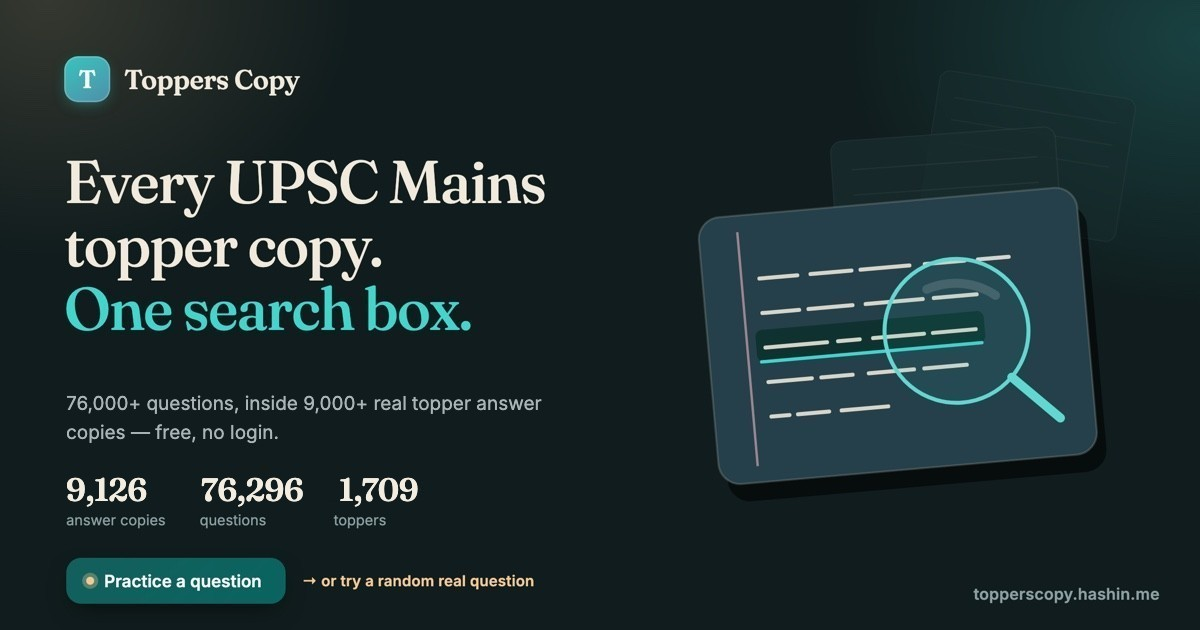
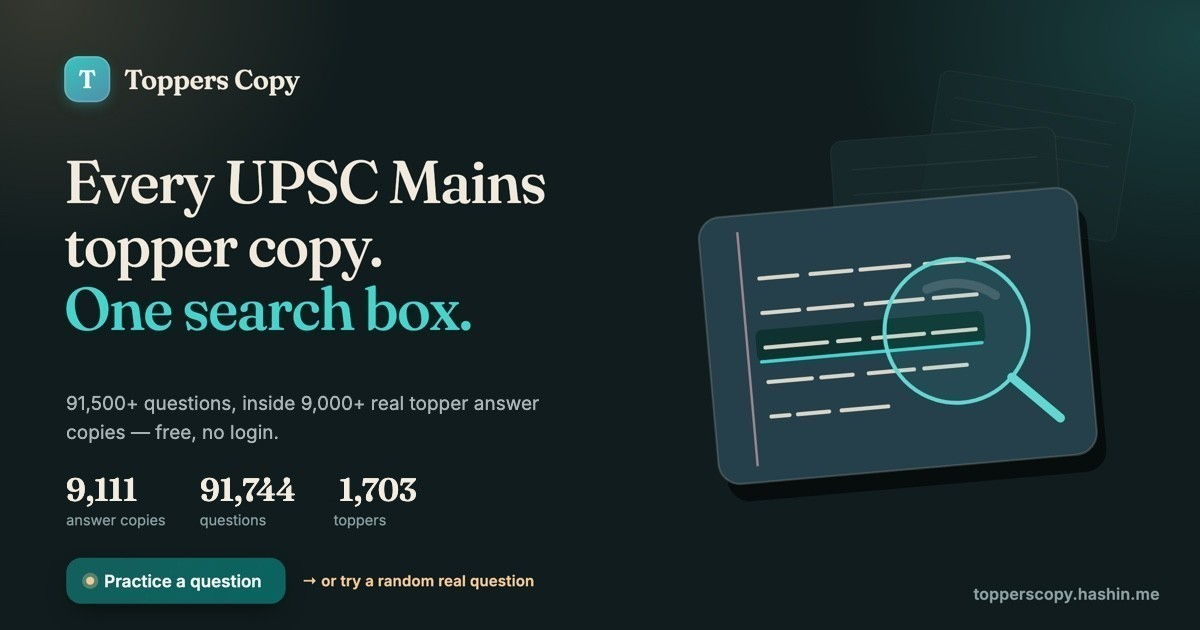
Refresh hero image numbers: 91,744 questions, 9,111 copies, 1,703 toppers
Patched with update-hero.mjs against origin/main 6ee317e (matches the live
site); README headline and og:image:alt updated to match.

diff --git a/index.html b/index.html
@@ -6,7 +6,7 @@
 
 <title>Topper's Copy by Hashin — UPSC Mains topper answer copies, searchable</title>
 <!-- META:START -->
-<meta name="description" content="Search 83,500+ questions inside 9,000+ UPSC Civil Services Mains topper answer copies — GS1-4, Essay and optional subjects — plus 3,800+ interview transcripts to help you prepare for your own Personality Test. Free, open and community-built.">
+<meta name="description" content="Search 91,500+ questions inside 9,000+ UPSC Civil Services Mains topper answer copies — GS1-4, Essay and optional subjects — plus 3,800+ interview transcripts to help you prepare for your own Personality Test. Free, open and community-built.">
 <!-- META:END -->
 <link rel="canonical" href="https://topperscopy.hashin.me/">
 <meta name="robots" content="index,follow,max-image-preview:large,max-snippet:-1,max-video-preview:-1">
@@ -20,14 +20,14 @@
 <meta property="og:site_name" content="Topper's Copy by Hashin">
 <meta property="og:title" content="Topper's Copy by Hashin — UPSC Mains topper answer copies, searchable">
 <!-- OGDESC:START -->
-<meta property="og:description" content="Search 83,500+ questions inside 9,000+ UPSC Mains topper answer copies, jump to the exact page, and study 3,800+ real interview transcripts. GS, Essay and optional subjects. Free and open.">
+<meta property="og:description" content="Search 91,500+ questions inside 9,000+ UPSC Mains topper answer copies, jump to the exact page, and study 3,800+ real interview transcripts. GS, Essay and optional subjects. Free and open.">
 <!-- OGDESC:END -->
 <meta property="og:url" content="https://topperscopy.hashin.me/">
 <meta property="og:image" content="https://topperscopy.hashin.me/assets/og.jpg">
 <meta property="og:image:type" content="image/jpeg">
 <meta property="og:image:width" content="1200">
 <meta property="og:image:height" content="630">
-<meta property="og:image:alt" content="Topper's Copy by Hashin: every UPSC Mains topper copy, one search box. 9,126 answer copies, 76,296 questions, 1,709 toppers — plus a Practice a question button.">
+<meta property="og:image:alt" content="Topper's Copy by Hashin: every UPSC Mains topper copy, one search box. 9,111 answer copies, 91,744 questions, 1,703 toppers — plus a Practice a question button.">
 <meta property="og:locale" content="en_IN">
 <meta name="twitter:card" content="summary_large_image">
 <meta name="twitter:title" content="Topper's Copy by Hashin — UPSC Mains topper answer copies, searchable">
@@ -170,8 +170,8 @@
   <style>.skeleton{min-height:0}</style>
   <section class="prose" style="padding:24px 0">
     <h2>UPSC Mains topper answer copies — full index</h2>
-    <p>82,438 questions from 5,392 answer
-    copies by 1298 rankers (GS Paper 1&ndash;4 and Essay), each linking to the exact page of the
+    <p>87,435 questions from 5,760 answer
+    copies by 1346 rankers (GS Paper 1&ndash;4 and Essay), each linking to the exact page of the
     source PDF. A free, open, community-built index. Optional-subject copies (Sociology, Anthropology,
     History, PSIR, Geography, Mathematics and more) are community-compiled.</p>
     <p><strong><a href="toppers.html">Open the full static index of all 1515 toppers and every copy &rarr;</a></strong>
@@ -180,7 +180,7 @@
     <p>Preparing for your own Personality Test? The <a href="/#interviews">Interviews tab</a> has
     3,863 UPSC interview transcripts — real board-by-board questions, DAF topics and candidate
     backgrounds — to see what boards actually ask.</p>
-    <h3>Selected rankers (150 of 1298 — full list in <a href="toppers.html">toppers.html</a>)</h3>
+    <h3>Selected rankers (150 of 1346 — full list in <a href="toppers.html">toppers.html</a>)</h3>
     <ul>
 <li><a href="/topper/aditya-srivastava/">Aditya Srivastava</a> — AIR 1 · CSE 2023</li>
 <li><a href="/topper/ishita-kishore/">Ishita Kishore</a> — AIR 1 · CSE 2022</li>
@@ -195,13 +195,10 @@
 <li><a href="/topper/akarsh-dhull/">Akarsh Dhull</a> — AIR 3 · CSE 2025</li>
 <li><a href="/topper/dongre-archit-parag/">Dongre Archit Parag</a> — AIR 3 · CSE 2024</li>
 <li><a href="/topper/gamini-singla/">Gamini Singla</a> — AIR 3 · CSE 2021</li>
-<li><a href="/topper/junaid-ahmad/">Junaid Ahmad</a> — AIR 3 · CSE 2018</li>
 <li><a href="/topper/aishwarya-verma/">Aishwarya Verma</a> — AIR 4 · CSE 2021</li>
 <li><a href="/topper/atul-prakash/">Atul Prakash</a> — AIR 4 · CSE 2017</li>
 <li><a href="/topper/raghav-jhunjhunwala/">Raghav Jhunjhunwala</a> — AIR 4 · CSE 2025</li>
 <li><a href="/topper/shah-margi-chirag/">Shah Margi Chirag</a> — AIR 4 · CSE 2024</li>
-<li><a href="/topper/smriti-mishra/">Smriti Mishra</a> — AIR 4 · CSE 2023</li>
-<li><a href="/topper/aakash-garg/">Aakash Garg</a> — AIR 5 · CSE 2024</li>
 <li><a href="/topper/ishan-bhatnagar/">Ishan Bhatnagar</a> — AIR 5 · CSE 2025</li>
 <li><a href="/topper/mamta-yadav/">Mamta Yadav</a> — AIR 5 · CSE 2020</li>
 <li><a href="/topper/ruhani/">Ruhani</a> — AIR 5 · CSE 2023</li>
@@ -239,7 +236,7 @@
 <li><a href="/topper/nupur-goel/">Nupur Goel</a> — AIR 11 · CSE 2019</li>
 <li><a href="/topper/parsanjeet-kour/">Parsanjeet Kour</a> — AIR 11 · CSE 2022</li>
 <li><a href="/topper/sanskriti-jain/">Sanskriti Jain</a> — AIR 11 · CSE 2014</li>
-<li><a href="/topper/abhinav-siwach/">Abhinav Siwach</a> — AIR 12 · CSE 2023</li>
+<li><a href="/topper/abhinav-siwach/">Abhinav Siwach</a> — AIR 12 · CSE 2022</li>
 <li><a href="/topper/ajay-jain/">Ajay Jain</a> — AIR 12 · CSE 2019</li>
 <li><a href="/topper/aniket-shandilya/">ANIKET SHANDILYA</a> — AIR 12 · CSE 2023</li>
 <li><a href="/topper/ashi-sharma/">Ashi Sharma</a> — AIR 12 · CSE 2024</li>
@@ -295,7 +292,6 @@
 <li><a href="/topper/abhishek-jain/">Abhishek Jain</a> — AIR 24 · CSE 2019</li>
 <li><a href="/topper/prajnanandan-giri/">Prajnanandan Giri</a> — AIR 24 · CSE 2023</li>
 <li><a href="/topper/r-rangamanju/">R Rangamanju</a> — AIR 24 · CSE 2024</li>
-<li><a href="/topper/ranga-manju/">Ranga Manju</a> — AIR 24 · CSE 2024</li>
 <li><a href="/topper/bhavika-chopra/">Bhavika Chopra</a> — AIR 25 · CSE 2025</li>
 <li><a href="/topper/ritika-verma/">RITIKA VERMA</a> — AIR 25 · CSE 2023</li>
 <li><a href="/topper/sankhe-kashmira-kishor/">Sankhe Kashmira Kishor</a> — AIR 25 · CSE 2022</li>
@@ -324,7 +320,7 @@
 <li><a href="/topper/pari-bishnoi/">Pari Bishnoi</a> — AIR 30 · CSE 2019</li>
 <li><a href="/topper/preksha-agrawal/">Preksha Agrawal</a> — AIR 30 · CSE 2022</li>
 <li><a href="/topper/aryan-yadav/">Aryan Yadav</a> — AIR 31 · CSE 2025</li>
-<li><a href="/topper/priyansha-garg/">Priyansha Garg</a> — AIR 31 · CSE 2023</li>
+<li><a href="/topper/priyansha-garg/">Priyansha Garg</a> — AIR 31 · CSE 2022</li>
 <li><a href="/topper/shreya-tyagi/">Shreya Tyagi</a> — AIR 31 · CSE 2024</li>
 <li><a href="/topper/simi-karan/">Simi Karan</a> — AIR 31 · CSE 2019</li>
 <li><a href="/topper/vishnu-sasikumar/">Vishnu Sasikumar</a> — AIR 31 · CSE 2023</li>
@@ -332,6 +328,10 @@
 <li><a href="/topper/navandar-anay-nitin/">Navandar Anay Nitin</a> — AIR 32 · CSE 2021</li>
 <li><a href="/topper/utkarsh-yadav/">Utkarsh Yadav</a> — AIR 32 · CSE 2024</li>
 <li><a href="/topper/mayank-purohit/">Mayank Purohit</a> — AIR 33 · CSE 2025</li>
+<li><a href="/topper/navneet-mann/">Navneet Mann</a> — AIR 33 · CSE 2019</li>
+<li><a href="/topper/tharun-patnaik/">Tharun Patnaik</a> — AIR 33 · CSE 2022</li>
+<li><a href="/topper/tharun-patnaik-madala/">Tharun Patnaik Madala</a> — AIR 33 · CSE 2022</li>
+<li><a href="/topper/zufishan-haque/">Zufishan Haque</a> — AIR 33 · CSE 2023</li>
     </ul>
   </section>
 </noscript>
@@ -635,7 +635,7 @@
 
 <!-- LD:START -->
 <script type="application/ld+json">
-{"@context":"https://schema.org","@graph":[{"@type":"WebSite","@id":"https://topperscopy.hashin.me/#website","url":"https://topperscopy.hashin.me/","name":"Topper's Copy by Hashin","description":"Searchable directory of UPSC Civil Services Mains topper answer copies — GS1–4, Essay and optional subjects.","inLanguage":"en","publisher":{"@id":"https://topperscopy.hashin.me/#org"},"potentialAction":{"@type":"SearchAction","target":{"@type":"EntryPoint","urlTemplate":"https://topperscopy.hashin.me/?q={search_term_string}"},"query-input":"required name=search_term_string"}},{"@type":"Organization","@id":"https://topperscopy.hashin.me/#org","name":"Topper's Copy by Hashin","url":"https://topperscopy.hashin.me/","description":"A free, open, community-built index of UPSC Mains topper answer copies.","founder":{"@id":"https://topperscopy.hashin.me/#hashin"}},{"@type":"Person","@id":"https://topperscopy.hashin.me/#hashin","name":"Hashin Jithu","url":"https://blog.hashin.me","description":"Creator and maintainer of Topper's Copy by Hashin. Topper of the UPSC Civil Services Examination 2021 with an All India Rank of 553. Built Topper's Copy by Hashin as a non-commercial way of giving back to the UPSC aspirant community.","knowsAbout":["UPSC Civil Services Examination","UPSC Mains answer writing","Public policy"],"award":"All India Rank 553, UPSC Civil Services Examination 2021"},{"@type":"Dataset","@id":"https://topperscopy.hashin.me/#dataset","name":"UPSC Mains Topper Answer Copies — question index","description":"A structured index of 82,438 questions across 5,392 UPSC Civil Services Mains answer copies written by 1298 rank-holders, covering General Studies Papers 1–4 and the Essay paper. Each record links to the exact page of the source PDF published by coaching institutes such as ForumIAS, Vision IAS and NextIAS.","url":"https://topperscopy.hashin.me/","keywords":["UPSC","Civil Services Exam","Mains","answer copy","toppers","General Studies","Essay","IAS","interview transcripts","Personality Test"],"license":"https://github.com/hashin/topperscopy/blob/main/LICENSE","isAccessibleForFree":true,"creator":{"@id":"https://topperscopy.hashin.me/#org"},"dateModified":"2026-10-29","distribution":[{"@type":"DataDownload","name":"Complete flat question table (CSV)","encodingFormat":"text/csv","contentUrl":"https://topperscopy.hashin.me/dataset/questions.csv"},{"@type":"DataDownload","name":"Complete dataset (nested JSON)","encodingFormat":"application/json","contentUrl":"https://topperscopy.hashin.me/dataset/dataset.json"},{"@type":"DataDownload","name":"Per-topper table (CSV)","encodingFormat":"text/csv","contentUrl":"https://topperscopy.hashin.me/dataset/toppers.csv"},{"@type":"DataDownload","name":"App index, grouped by topper (JSON)","encodingFormat":"application/json","contentUrl":"https://topperscopy.hashin.me/data/copies.json"}]},{"@type":"FAQPage","@id":"https://topperscopy.hashin.me/#faq","mainEntity":[{"@type":"Question","name":"What is Topper's Copy by Hashin?","acceptedAnswer":{"@type":"Answer","text":"A free, searchable directory of UPSC Civil Services Mains topper answer copies. It indexes 82,438 questions inside 5,392 answer copies by 1298 rankers and links to the exact page of each source PDF."}},{"@type":"Question","name":"Where do the answer copies come from?","acceptedAnswer":{"@type":"Answer","text":"Every copy is hosted by the coaching institute or compiler that published it — ForumIAS, Vision IAS, NextIAS, Lukmaan IAS, GS SCORE, Rau’s IAS, Level Up IAS, IMS4Maths, SuccessClap, UnlockIAS, Sleepy Classes and others — or the topper’s own Google Drive. Topper's Copy by Hashin only links to those files and never re-hosts them; it is a free, open, community-built index."}},{"@type":"Question","name":"Does it cover optional subjects?","acceptedAnswer":{"@type":"Answer","text":"Yes. Alongside GS1–GS4 and Essay, there is a community-built section for optional subjects — Sociology, Anthropology, History, PSIR, Geography, Public Administration, Philosophy, Economics, Literature and more."}},{"@type":"Question","name":"Can I prepare for the UPSC interview (Personality Test) here?","acceptedAnswer":{"@type":"Answer","text":"Yes. The Interviews tab has 3,863 real UPSC Personality Test transcripts — board members, the questions each panellist actually asked, DAF topics discussed, and candidate hobbies and education background — searchable by board, year, optional subject or state."}},{"@type":"Question","name":"Is it free?","acceptedAnswer":{"@type":"Answer","text":"Yes, completely free and open source. No login, no ads."}},{"@type":"Question","name":"How can I add a missing copy or a topper’s marks?","acceptedAnswer":{"@type":"Answer","text":"Use the Submit form on the site. It opens a pre-filled GitHub issue that a maintainer verifies before it goes live."}}]}]}
+{"@context":"https://schema.org","@graph":[{"@type":"WebSite","@id":"https://topperscopy.hashin.me/#website","url":"https://topperscopy.hashin.me/","name":"Topper's Copy by Hashin","description":"Searchable directory of UPSC Civil Services Mains topper answer copies — GS1–4, Essay and optional subjects.","inLanguage":"en","publisher":{"@id":"https://topperscopy.hashin.me/#org"},"potentialAction":{"@type":"SearchAction","target":{"@type":"EntryPoint","urlTemplate":"https://topperscopy.hashin.me/?q={search_term_string}"},"query-input":"required name=search_term_string"}},{"@type":"Organization","@id":"https://topperscopy.hashin.me/#org","name":"Topper's Copy by Hashin","url":"https://topperscopy.hashin.me/","description":"A free, open, community-built index of UPSC Mains topper answer copies.","founder":{"@id":"https://topperscopy.hashin.me/#hashin"}},{"@type":"Person","@id":"https://topperscopy.hashin.me/#hashin","name":"Hashin Jithu","url":"https://blog.hashin.me","description":"Creator and maintainer of Topper's Copy by Hashin. Topper of the UPSC Civil Services Examination 2021 with an All India Rank of 553. Built Topper's Copy by Hashin as a non-commercial way of giving back to the UPSC aspirant community.","knowsAbout":["UPSC Civil Services Examination","UPSC Mains answer writing","Public policy"],"award":"All India Rank 553, UPSC Civil Services Examination 2021"},{"@type":"Dataset","@id":"https://topperscopy.hashin.me/#dataset","name":"UPSC Mains Topper Answer Copies — question index","description":"A structured index of 87,435 questions across 5,760 UPSC Civil Services Mains answer copies written by 1346 rank-holders, covering General Studies Papers 1–4 and the Essay paper. Each record links to the exact page of the source PDF published by coaching institutes such as ForumIAS, Vision IAS and NextIAS.","url":"https://topperscopy.hashin.me/","keywords":["UPSC","Civil Services Exam","Mains","answer copy","toppers","General Studies","Essay","IAS","interview transcripts","Personality Test"],"license":"https://github.com/hashin/topperscopy/blob/main/LICENSE","isAccessibleForFree":true,"creator":{"@id":"https://topperscopy.hashin.me/#org"},"dateModified":"2026-11-05","distribution":[{"@type":"DataDownload","name":"Complete flat question table (CSV)","encodingFormat":"text/csv","contentUrl":"https://topperscopy.hashin.me/dataset/questions.csv"},{"@type":"DataDownload","name":"Complete dataset (nested JSON)","encodingFormat":"application/json","contentUrl":"https://topperscopy.hashin.me/dataset/dataset.json"},{"@type":"DataDownload","name":"Per-topper table (CSV)","encodingFormat":"text/csv","contentUrl":"https://topperscopy.hashin.me/dataset/toppers.csv"},{"@type":"DataDownload","name":"App index, grouped by topper (JSON)","encodingFormat":"application/json","contentUrl":"https://topperscopy.hashin.me/data/copies.json"}]},{"@type":"FAQPage","@id":"https://topperscopy.hashin.me/#faq","mainEntity":[{"@type":"Question","name":"What is Topper's Copy by Hashin?","acceptedAnswer":{"@type":"Answer","text":"A free, searchable directory of UPSC Civil Services Mains topper answer copies. It indexes 87,435 questions inside 5,760 answer copies by 1346 rankers and links to the exact page of each source PDF."}},{"@type":"Question","name":"Where do the answer copies come from?","acceptedAnswer":{"@type":"Answer","text":"Every copy is hosted by the coaching institute or compiler that published it — ForumIAS, Vision IAS, NextIAS, Lukmaan IAS, GS SCORE, Rau’s IAS, Level Up IAS, IMS4Maths, SuccessClap, UnlockIAS, Sleepy Classes and others — or the topper’s own Google Drive. Topper's Copy by Hashin only links to those files and never re-hosts them; it is a free, open, community-built index."}},{"@type":"Question","name":"Does it cover optional subjects?","acceptedAnswer":{"@type":"Answer","text":"Yes. Alongside GS1–GS4 and Essay, there is a community-built section for optional subjects — Sociology, Anthropology, History, PSIR, Geography, Public Administration, Philosophy, Economics, Literature and more."}},{"@type":"Question","name":"Can I prepare for the UPSC interview (Personality Test) here?","acceptedAnswer":{"@type":"Answer","text":"Yes. The Interviews tab has 3,863 real UPSC Personality Test transcripts — board members, the questions each panellist actually asked, DAF topics discussed, and candidate hobbies and education background — searchable by board, year, optional subject or state."}},{"@type":"Question","name":"Is it free?","acceptedAnswer":{"@type":"Answer","text":"Yes, completely free and open source. No login, no ads."}},{"@type":"Question","name":"How can I add a missing copy or a topper’s marks?","acceptedAnswer":{"@type":"Answer","text":"Use the Submit form on the site. It opens a pre-filled GitHub issue that a maintainer verifies before it goes live."}}]}]}
 </script>
 <!-- LD:END -->
 

diff --git a/docs/SESSIONS.md b/docs/SESSIONS.md
@@ -1130,9 +1130,11 @@ Sagar Jain (Test 5), Pawan Kumar Pandey (Tests 1, 3, 4). `year: 2024` is from th
 person (exact name), not confirmed. If not, disambiguate the name (DECISION-22). The page's other optionals (Physics, Maths) were not added — not asked.
 
 ## 2026-11-05 — Hero image refresh
-**Asked.** "update the hero image with upto date numbers". **Did.** `node build.js`, `git checkout index.html`, `node update-hero.mjs`
-(DECISION-24): `assets/og.jpg` now reads 9,105 copies · 83,800 questions · 1,703 toppers, tagline "83,500+ questions, inside 9,000+";
-README headline (76,000+ → 83,500+) and `index.html` `og:image:alt` patched to match. `npm run check` 32/32. Not committed.
+**Asked.** "update the hero image with upto date numbers" (then: "we have 91000+ questions"). **Did.** `assets/og.jpg` now reads
+9,111 copies · 91,744 questions · 1,703 toppers, tagline "91,500+ questions, inside 9,000+"; README headline (76,000+ → 91,500+)
+and `index.html` `og:image:alt` patched to match, via `update-hero.mjs` (DECISION-24). **Trap.** This checkout was a week behind
+`origin/main` (the `ocr: gemini vision pass` commits add ~8k questions): a first run here said 83,800. The numbers above come from a
+scratch clone built at `origin/main` 6ee317e — they match the live site. Pull before the next local hero run. Not committed.
 
 ## 2026-11-05 — VisionIAS PDFs "Access Denied"
 **Asked.** A `cdn.visionias.in/toppersanswerbooklet/…sudipa_dutta_rank_41.pdf` link shows access denied — "fix it". **Found.** Not our bug:

diff --git a/README.md b/README.md
@@ -1,6 +1,6 @@
 # Topper's Copy by Hashin
 
-A free, static, community-maintained directory of **UPSC Civil Services Mains topper answer copies** — GS1–4, Essay, and optional subjects. Search **76,000+ questions** across **9,000+ answer copies** by **1,700+ rank-holders**, and open the exact page of each copy.
+A free, static, community-maintained directory of **UPSC Civil Services Mains topper answer copies** — GS1–4, Essay, and optional subjects. Search **91,500+ questions** across **9,000+ answer copies** by **1,700+ rank-holders**, and open the exact page of each copy.
 
 Live: **https://topperscopy.hashin.me**
 
